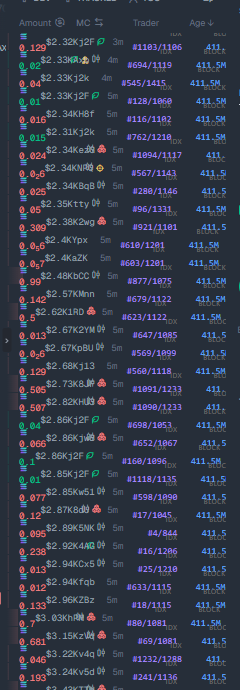
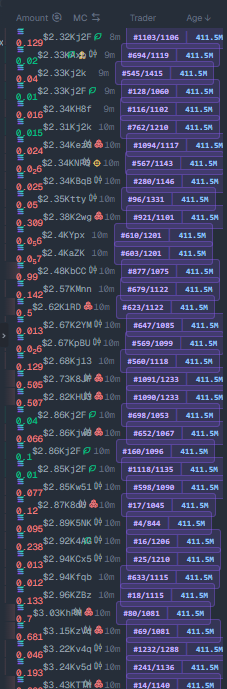
Widen badge with more padding and min-width

diff --git a/content.css b/content.css
@@ -4,14 +4,16 @@
   display: inline-flex;
   align-items: center;
   gap: 2px;
-  margin-left: 8px;
-  padding: 3px 8px;
+  margin-left: 10px;
+  padding: 4px 12px;
   background: rgba(139, 92, 246, 0.15);
   border: 1px solid rgba(139, 92, 246, 0.35);
   border-radius: 4px;
   font-family: 'SF Mono', 'Monaco', 'Consolas', monospace;
   flex-shrink: 0;
   white-space: nowrap;
+  min-width: 120px;
+  justify-content: center;
 }
 
 .axiom-col {
@@ -22,6 +24,7 @@
 .axiom-value {
   font-size: 11px;
   font-weight: 600;
+  letter-spacing: 0.3px;
 }
 
 .axiom-col-idx .axiom-value {
@@ -36,14 +39,15 @@
 /* Divider between columns */
 .axiom-col-idx::after {
   content: '|';
-  margin: 0 6px;
+  margin: 0 8px;
   color: rgba(139, 92, 246, 0.4);
   font-weight: 400;
 }
 
 /* Loading */
 .axiom-loading {
-  padding: 3px 10px;
+  min-width: 80px;
+  justify-content: center;
 }
 
 .axiom-spinner {
